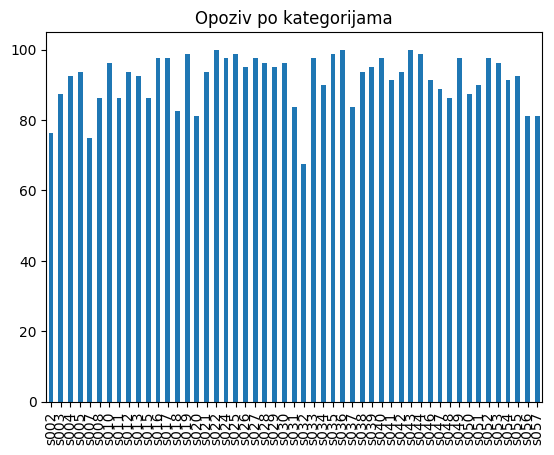
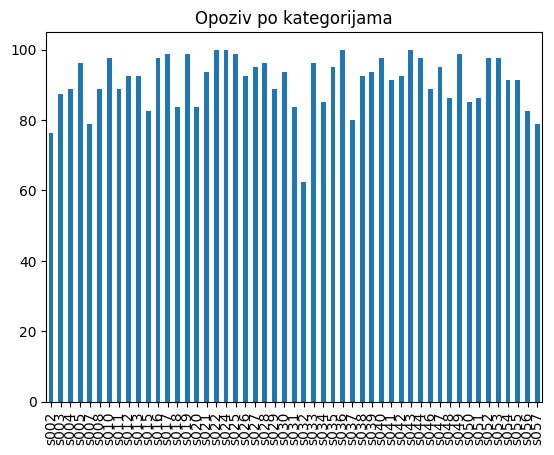
Change dataset scaler

diff --git a/functions.py b/functions.py
@@ -2,7 +2,7 @@ import numpy as np
 import pandas as pd
 from pandas import DataFrame
 from sklearn.model_selection import train_test_split
-from sklearn.preprocessing import StandardScaler
+from sklearn.preprocessing import MinMaxScaler
 from sklearn.ensemble import RandomForestClassifier
 from sklearn.metrics import confusion_matrix, precision_score, accuracy_score
 import matplotlib.pyplot as plt
@@ -46,7 +46,7 @@ def prepareForModelUse(populatedDataframe: DataFrame, index):
 
     # Normaliziranje skupova podataka kako bi predvidanje modela 
     # bilo sto preciznije
-    scaler = StandardScaler()
+    scaler = MinMaxScaler()
     scaler.fit(X_train)
     X_train = scaler.transform(X_train)
     X_test = scaler.transform(X_test)

diff --git a/main.py b/main.py
@@ -34,8 +34,9 @@ modelRF = RandomForestClassifier(n_estimators = 30)
 # Koristenje napravljene metode za rad nad modelom strojnog ucenja
 confusionMatrix, prediction, trainingTime, testingTime = useModel(y_train, X_train, y_test, X_test, modelRF)
 
-# 5. Izracun statistickih pokazatelja modela strojnog ucenja
-#    i spremanje statistickih pokazatelja u Excel datoteku#
+# 5. Izračun statističkih pokazatelja modela strojnog učenja, 
+# iscrtavanje grafova pojedinih pokazatelja
+# i spremanje podataka u Excel datoteku #
 
 # Metoda sluzi za izracun statisticki pokazatelja, odnosno
 # sluzi za izracun performansi modela strojnog ucenja
